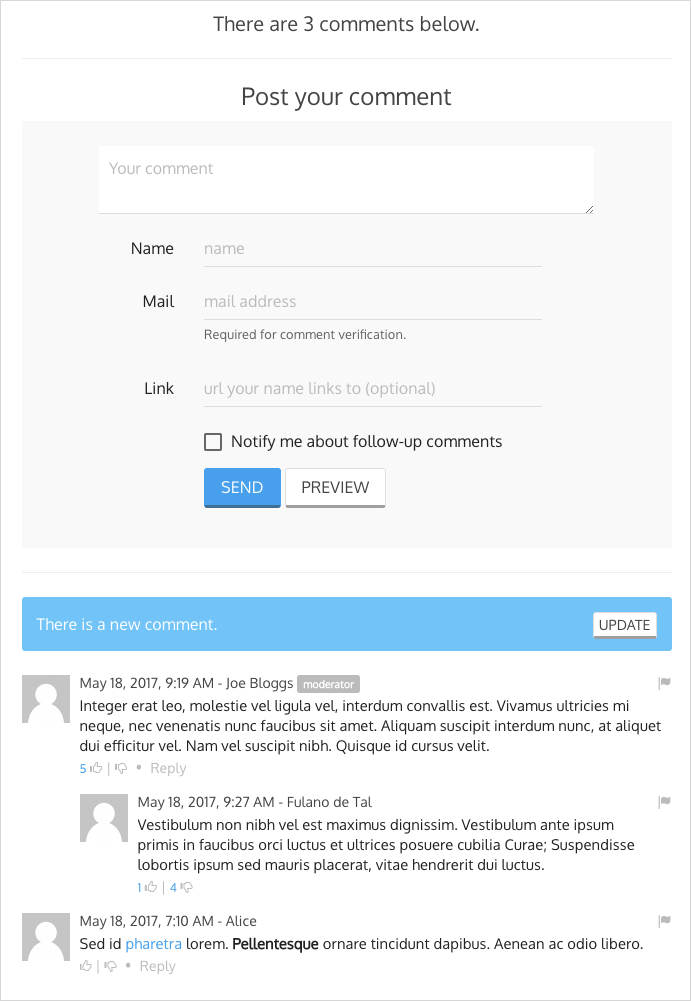
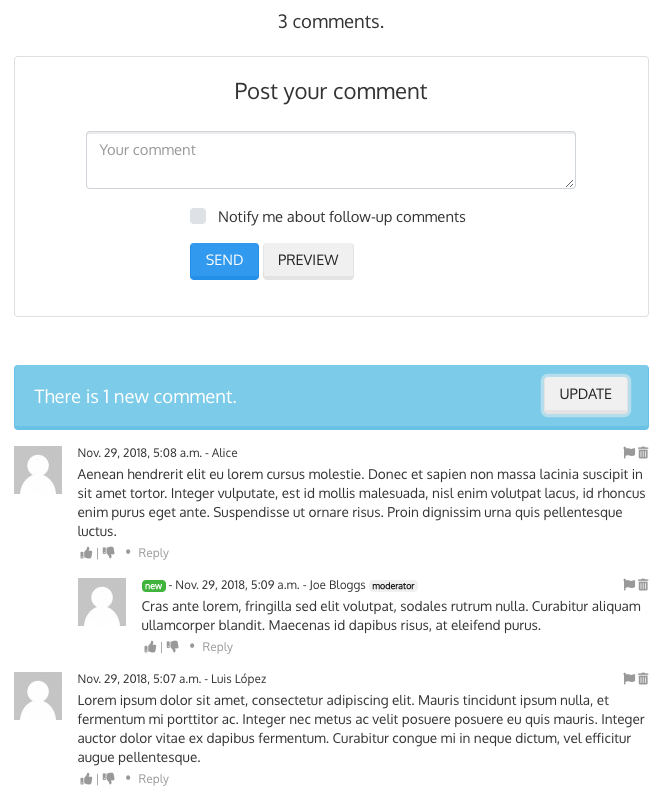
Adapt 'update comment tree' message to twbs-4

diff --git a/django_comments_xtd/static/django_comments_xtd/js/src/comment.jsx b/django_comments_xtd/static/django_comments_xtd/js/src/comment.jsx
@@ -11,17 +11,6 @@ import {CommentForm} from './commentform.jsx';
 export class Comment extends React.Component {
   constructor(props) {
     super(props);
-    this._initialize_state(props);
-    this.action_like = this.action_like.bind(this);
-    this.action_dislike = this.action_dislike.bind(this);
-    this.handle_reply_click = this.handle_reply_click.bind(this);
-  }
-
-  componentWillReceiveProps(props) {
-    this._initialize_state(props);
-  }
-
-  _initialize_state(props) {
     this.state = {
       current_user: props.settings.current_user,
       removal: props.data.flags.removal.active,
@@ -35,6 +24,10 @@ export class Comment extends React.Component {
         is_visible: false
       }
     };
+    this.action_like = this.action_like.bind(this);
+    this.action_dislike = this.action_dislike.bind(this);
+    this.handle_reply_click = this.handle_reply_click.bind(this);
+    console.log("Creating Comment");
   }
 
   _get_username_chunk() {
@@ -184,6 +177,12 @@ export class Comment extends React.Component {
     } else
       return "";
   }
+
+  make_form_invisible(submit_status) {
+    // this.setState({reply_form: {component: this.state.reply_form.component,
+    //                             is_visible: false}});
+    this.props.on_comment_created();
+  }
   
   handle_reply_click(event) {
     event.preventDefault();
@@ -193,7 +192,7 @@ export class Comment extends React.Component {
       component = (
         <CommentForm {...this.props.settings}
                      reply_to={this.props.data.id}
-                     on_comment_created={this.props.on_comment_created} />
+                     on_comment_created={this.make_form_invisible.bind(this)} />
       );
     this.setState({reply_form: {component: component, is_visible: visible}});
   }

diff --git a/django_comments_xtd/static/django_comments_xtd/js/src/commentbox.jsx b/django_comments_xtd/static/django_comments_xtd/js/src/commentbox.jsx
@@ -76,12 +76,10 @@ export class CommentBox extends React.Component {
                                  "There are %s new comments.", diff);
       var message = django.interpolate(fmts, [diff]);
       return (
-        <div className="alert alert-info">
-          {message}
-          <div className="pull-right">
-            <button type="button" className="btn btn-default btn-xs"
-                    onClick={this.handle_update}>update</button>
-          </div>
+        <div className="alert alert-info d-flex align-items-center">
+          <p className="mr-auto">{message}</p>
+          <button type="button" className="btn btn-secondary btn-xs"
+                  onClick={this.handle_update}>update</button>
         </div>
       );
     } else

diff --git a/example/comp/templates/articles/article_detail.html b/example/comp/templates/articles/article_detail.html
@@ -51,7 +51,7 @@
      allow_feedback: true,
      show_feedback: true,
      allow_flagging: true,
-     polling_interval: 0
+     polling_interval: 5000
  };
 </script>
 <script src="{% static 'django_comments_xtd/js/vendor~plugin-2.2.1.js' %}"></script>
